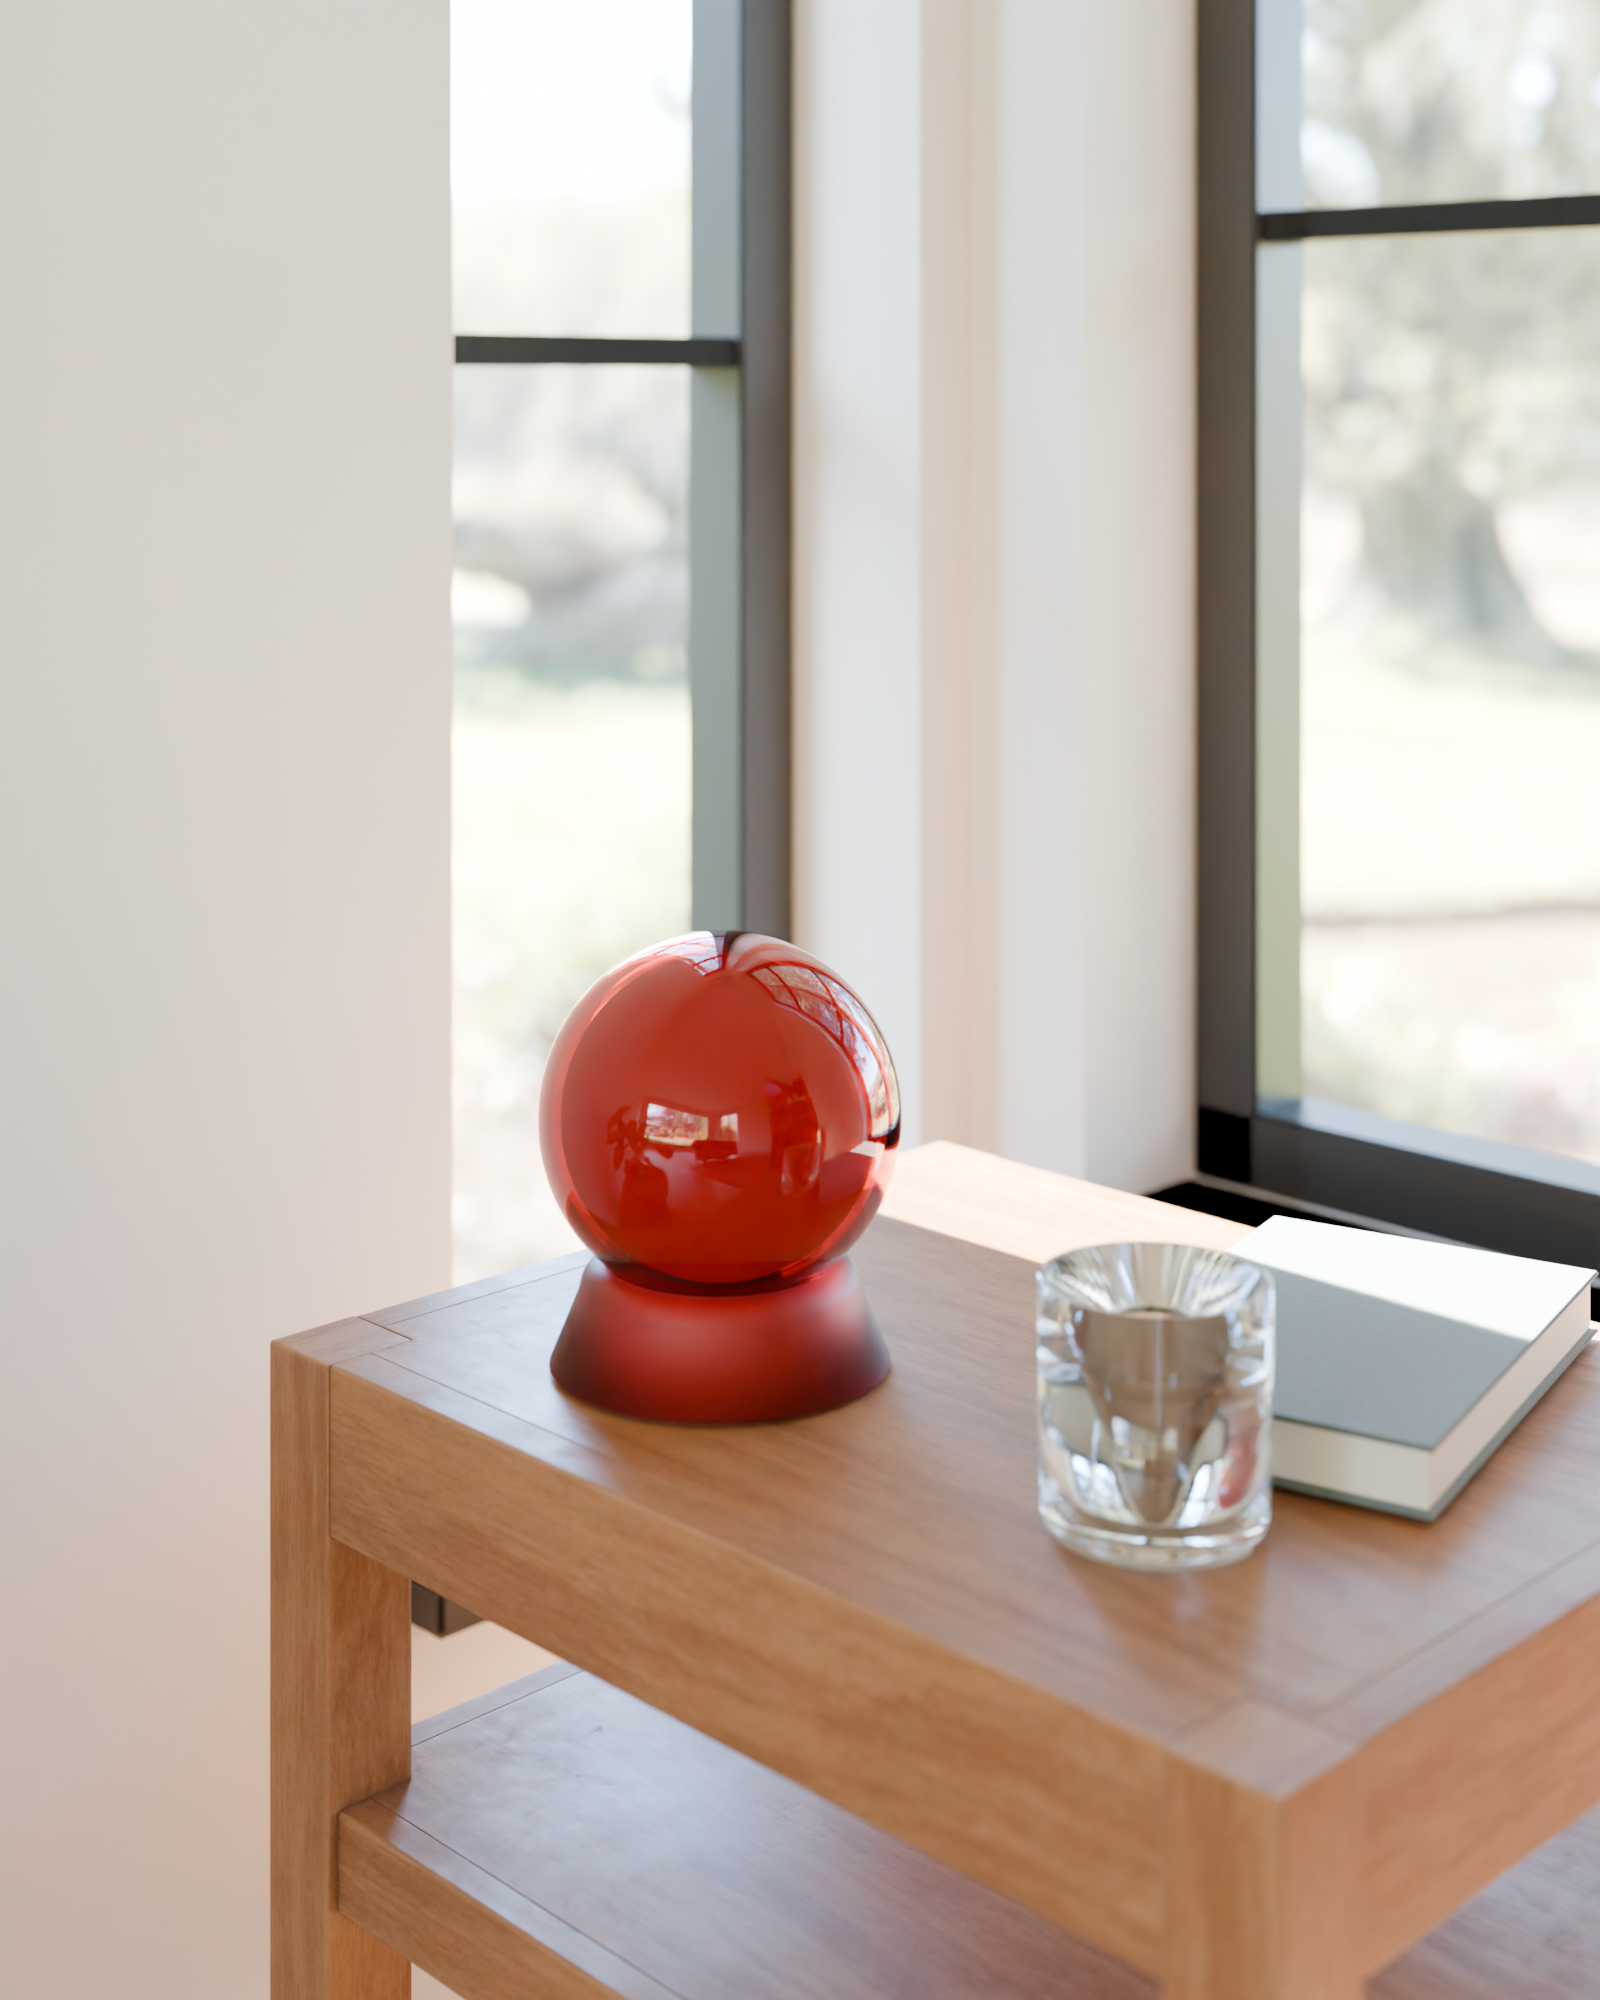
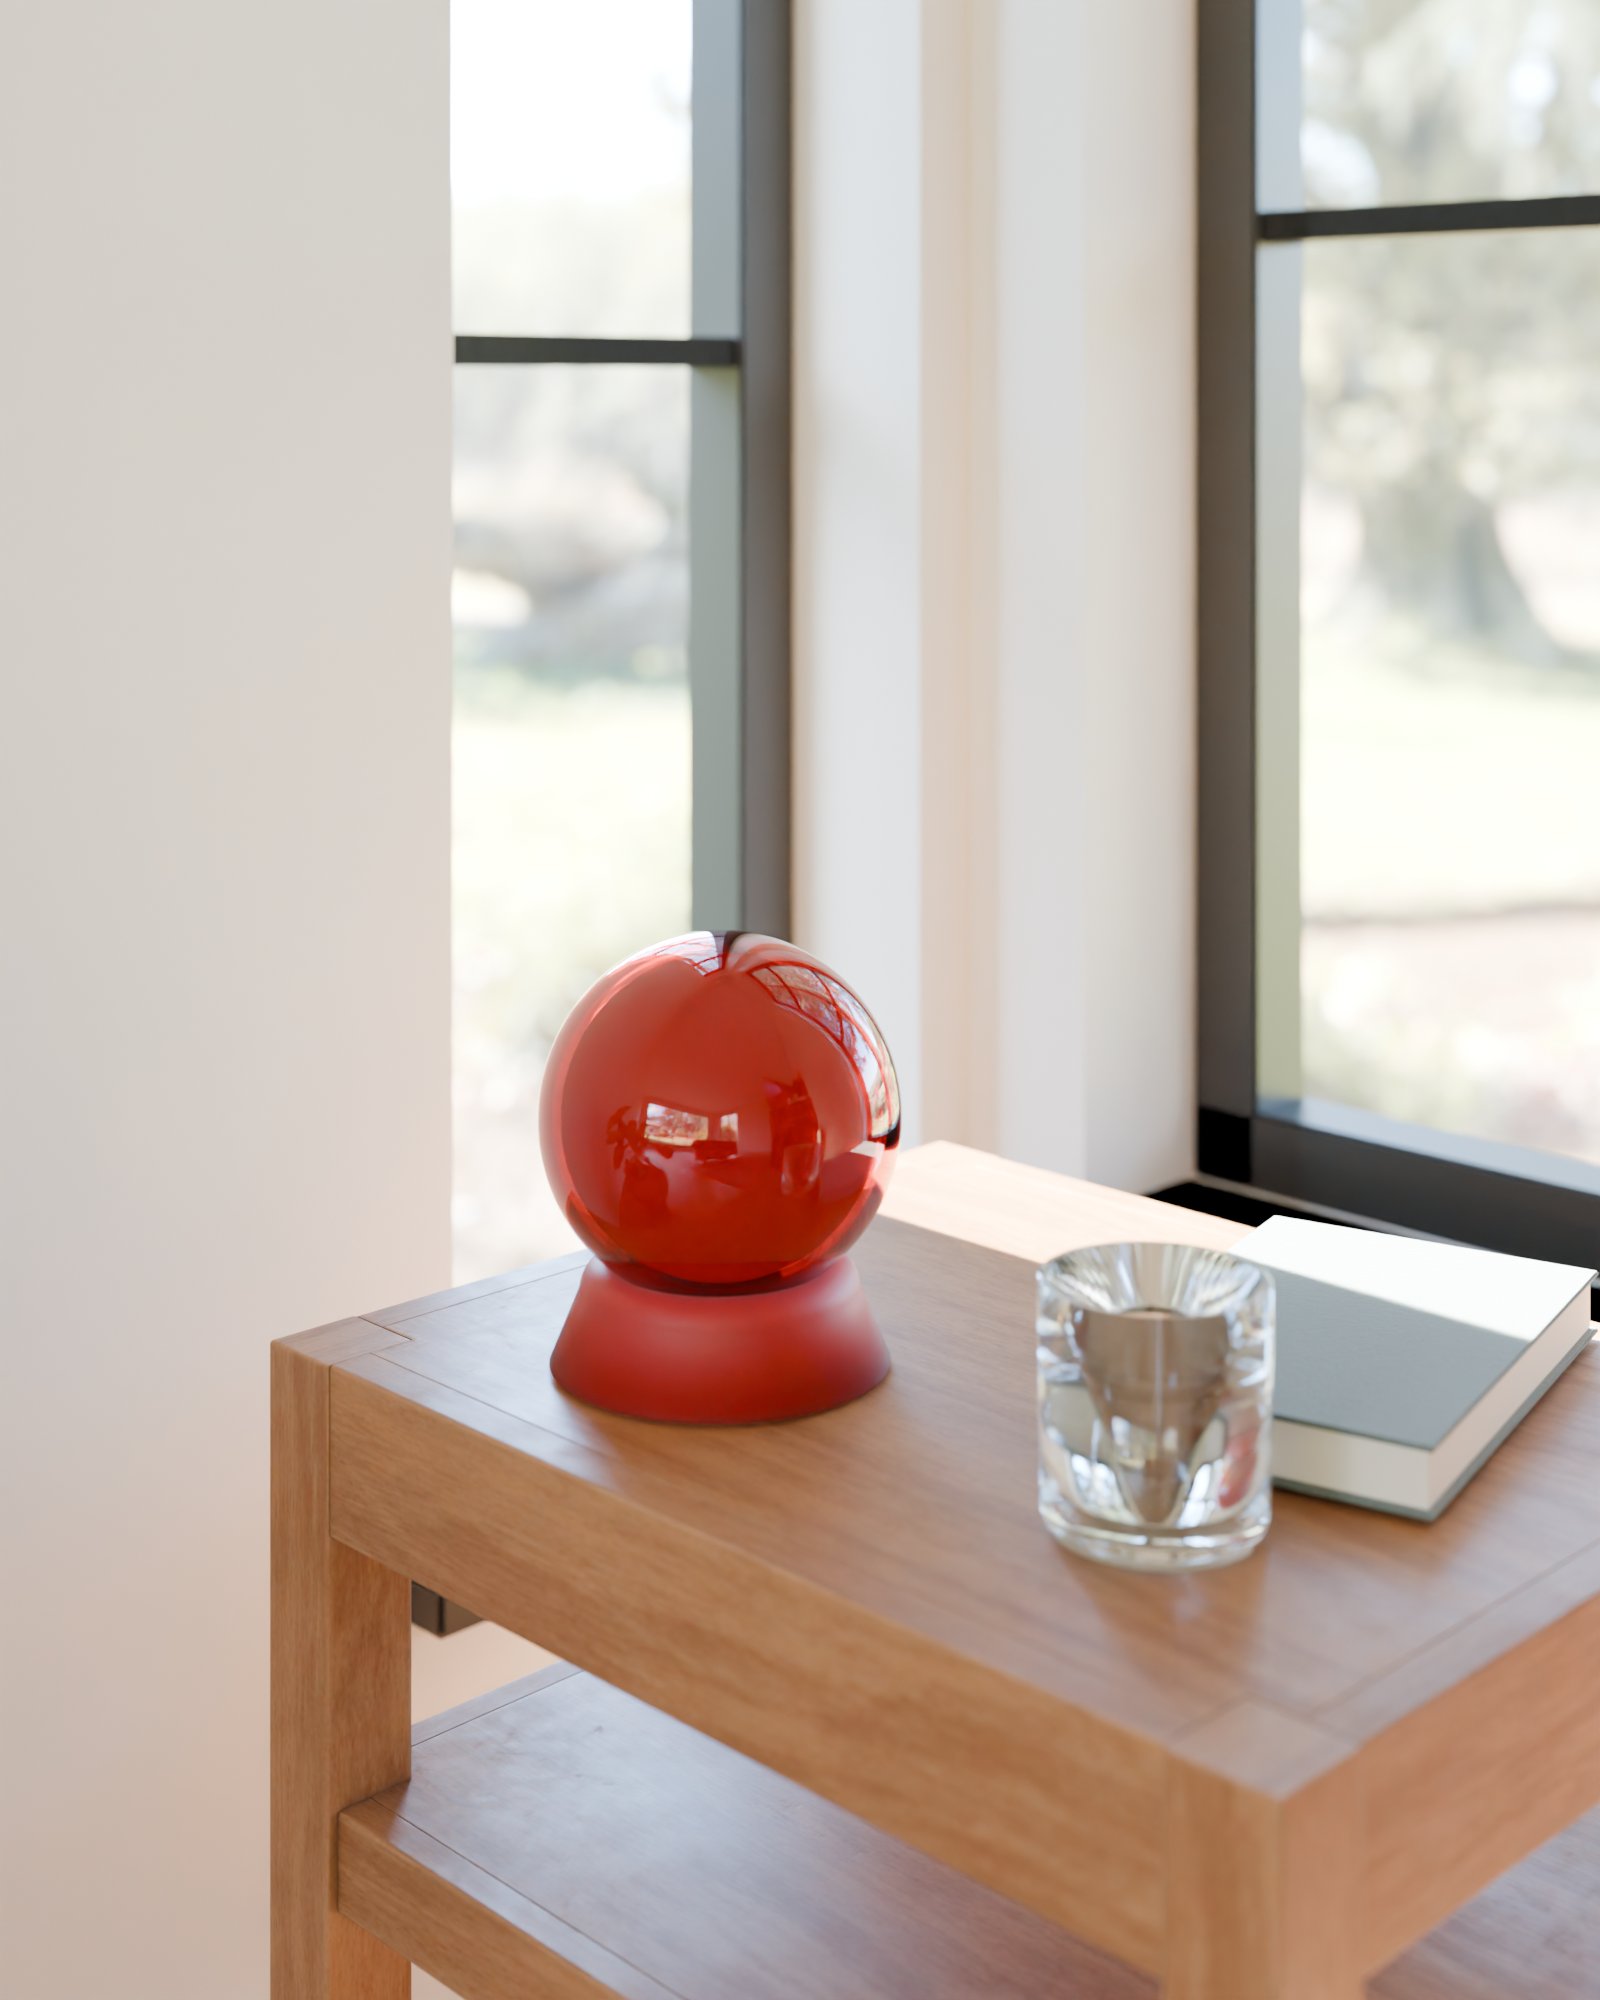
Living room C again: the Core's base with its white liner in optical contact (lamps 7e08871d9, BASE_CONTACT=1), the gray flanks gone; the base read at its centre and both flanks
Claude-Session: https://claude.ai/code/session_01CsZ9sPVytkpnrfV4BgTgfB

Changed region(s): [[0.3438, 0.62, 0.5625, 0.713]]

diff --git a/renders/2026-11-20/barkhorn/living/base_readings.py b/renders/2026-11-20/barkhorn/living/base_readings.py
@@ -1,0 +1,12 @@
+"""The Core base in C: L*, C*, hue at its centre and both flanks (boxes in the 1600 x 2000 frame's pixels)."""
+import sys, numpy as np
+from PIL import Image
+def lab(a):
+    a=a/255; lin=np.where(a<=0.04045,a/12.92,((a+0.055)/1.055)**2.4)
+    M=np.array([[0.4124,0.3576,0.1805],[0.2126,0.7152,0.0722],[0.0193,0.1192,0.9505]])
+    X=lin@M.T/np.array([0.95047,1,1.08883]); f=np.where(X>216/24389,np.cbrt(X),(24389/27*X+16)/116)
+    A=500*(f[...,0]-f[...,1]); B=200*(f[...,1]-f[...,2]); return 116*f[...,1]-16, np.hypot(A,B), np.degrees(np.arctan2(B,A))
+BOX={'left flank':(565,600),'centre':(690,750),'right flank':(840,875)}
+for p in sys.argv[1:]:
+    L,C,h=lab(np.asarray(Image.open(p).convert('RGB')).astype(float))
+    print(p.split('/')[-1], '  '.join(f'{n}: {L[1320:1380,x0:x1].mean():.1f} / {C[1320:1380,x0:x1].mean():.1f} / h {h[1320:1380,x0:x1].mean():.0f}' for n,(x0,x1) in BOX.items()))

diff --git a/renders/2026-11-20/barkhorn/living/README.md b/renders/2026-11-20/barkhorn/living/README.md
@@ -175,3 +175,27 @@ credited here all the same. They are fetched and cached by `studio/engine/assets
 | the rug | `poly_wool_herringbone` | colormass, Rico Cilliers |
 
 The record covers are this repository's own (`spinoffs/barkhorn/campaign/bar_life/tex`, invented covers).
+
+## C again: the Core's base with its liner in contact (2026-11-21)
+
+The owner saw the Core's base as "smoke frosted" at its edges: red in the middle, a gray-brown band down each side. The
+cause was in the lamps lane's `lamp_site.py`: a 0.4 mm air gap between the satin skin's smooth inner face and the white
+liner, where the CAD has them in contact. Light leaving the base at grazing angles was lost in that gap.
+
+C was rendered again from its own shot file, unchanged. The only differences are the lamps lane's code at 7e08871d9
+(`LAMPS_ROOT`) and `BASE_CONTACT=1`. That commit also brings the lane's other new defaults for the Core: the skin's foot
+lifted 0.2 mm off the table, and its turned surfaces in 768 segments. The previous C is kept as `living-c-ember-v2.png`.
+
+- 1600 x 2000, 256 samples, 35 minutes. Audit: hidden 0, equipment 0.
+- Outside the Core's box (x 500 to 950, y 1150 to 1450) the frame is unchanged: the mean difference is 0.02/255.
+- `c-base-v2-v3.png`: the base before (left) and after (right), at 1.5x.
+
+**The base** (`base_readings.py`, L* / C* / hue, 60 rows at y 1320 to 1380):
+
+| | left flank (x 565-600) | centre (x 690-750) | right flank (x 840-875) |
+|---|---|---|---|
+| before (v2) | 26.8 / 31.0 / 37 | 38.8 / 54.6 / 36 | 39.5 / 20.9 / 12 |
+| after | 37.5 / 53.2 / 36 | 41.0 / 55.5 / 35 | 45.4 / 33.9 / 22 |
+
+The left flank now matches the centre's colour. The right flank is still paler: its box takes in the table's warm
+highlight through the satin edge, which lowers the hue.
